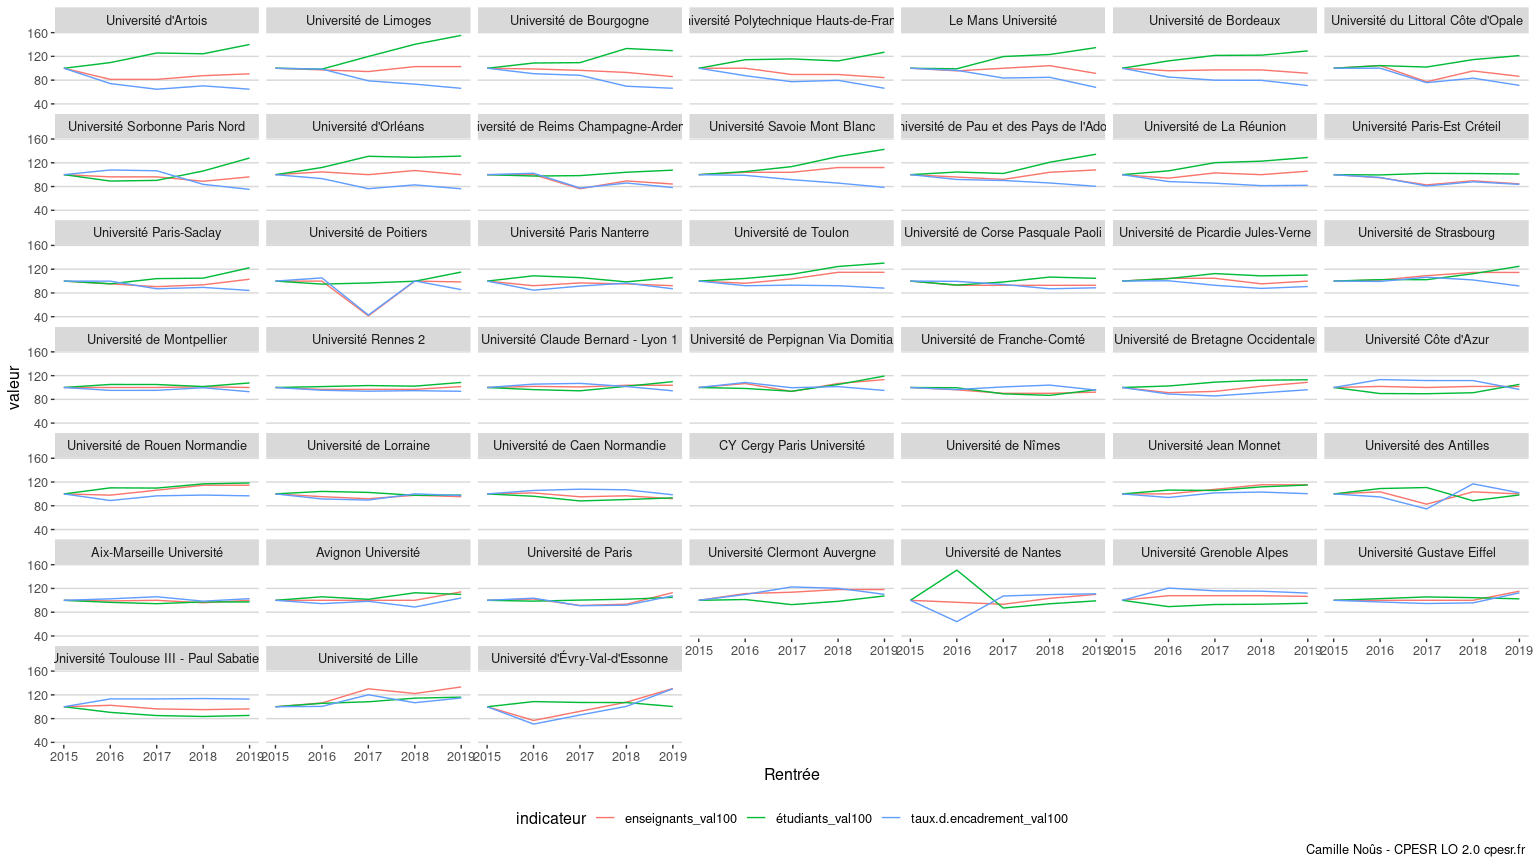
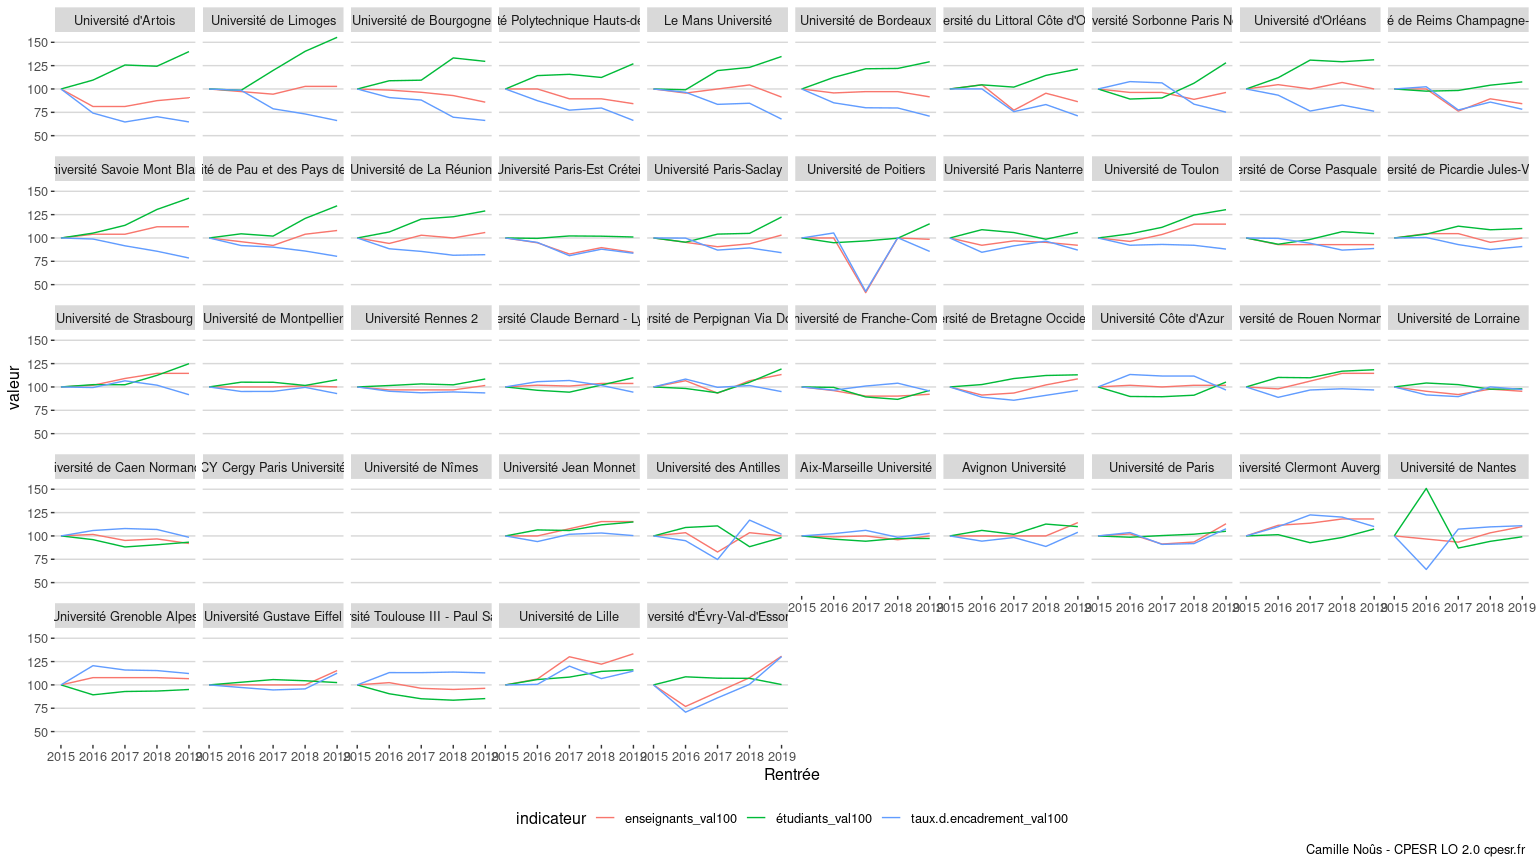
staps amélioré

diff --git a/STAPS/STAPS.md b/STAPS/STAPS.md
@@ -10,7 +10,8 @@ staps %>%
   pivot_longer(ends_with("_val100"),names_to="indicateur",values_to = "valeur") %>%
   ggplot(aes(x=Rentrée,y=valeur,color=indicateur)) +
   geom_line(aes(group=indicateur)) +
-  facet_wrap(.~Etablissement) +
+  facet_wrap(.~Etablissement, ncol = 10) +
+  scale_y_continuous(breaks=c(50,75,100,125,150)) +
   theme_cpesr_cap()
 ```
 
